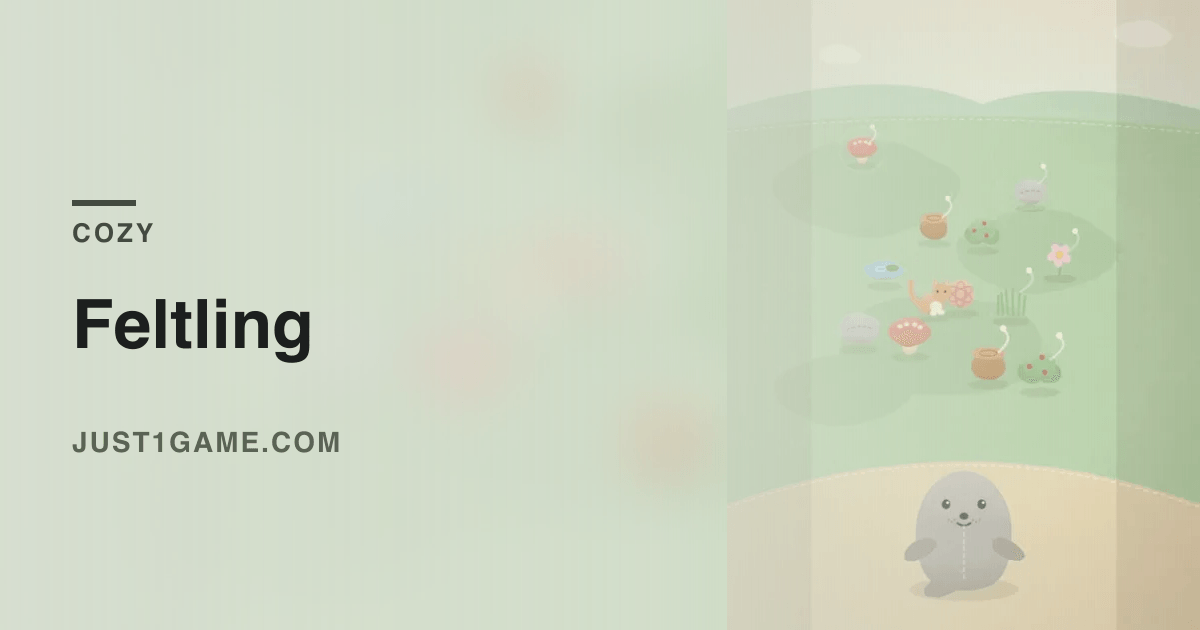
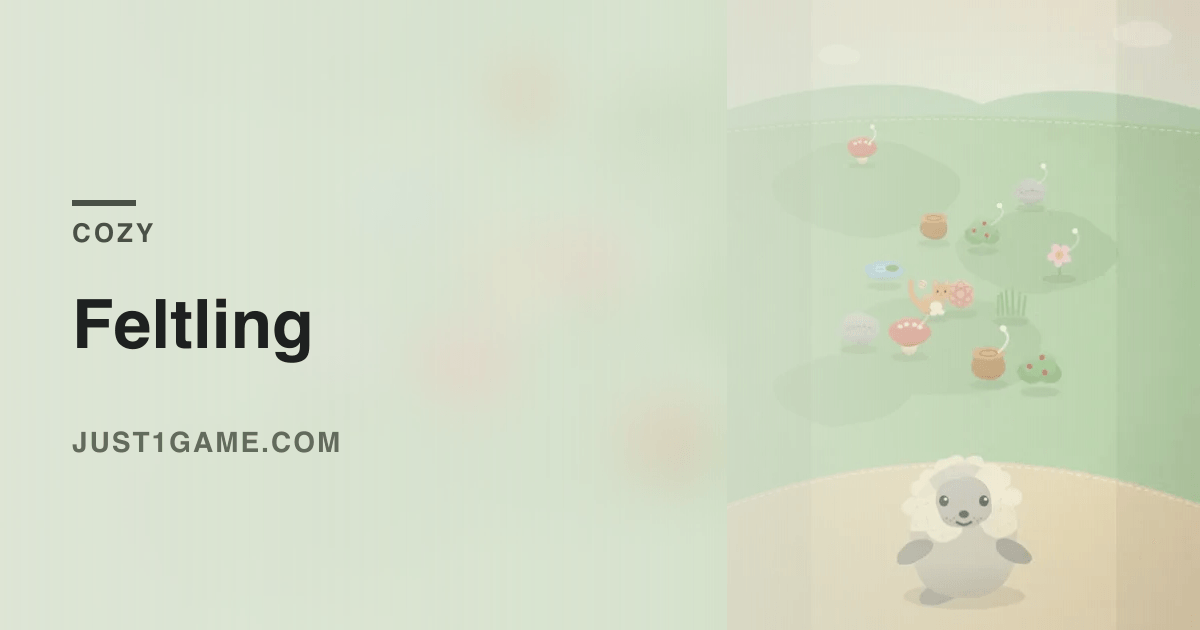
Let a game say which of its states is worth photographing
The cozy game opens on a bare grey seal, because growing its coat is the
entire point and you have not done it yet. The automated thumbnail is
therefore a true picture of the game that says nothing about what the game
is, which is the same failure as capturing a duck game before the ducklings
join the line — just at the other end of the run.

A game can now declare a capture query the way it already declares a
capture time, and Feltling opens its screenshot at the third coat, where
the seal is visibly half-woolly. Still a real frame the game produces, and
still chosen by the existing earliest-changed-frame rule inside the window.

Claude-Session: https://claude.ai/code/session_016REG1S2ydo31u1TNooXeEh

diff --git a/tools/shoot.js b/tools/shoot.js
@@ -72,10 +72,14 @@ async function pickPlayFrame(page, target, baseline, fromMs) {
   return fallback ? { raw: fallback, diff: fallbackDiff, at: null } : null;
 }
 
-async function shoot(browser, slug, fromMs) {
+/* 게임이 자기를 "가장 잘 보여주는 상태"로 열 수 있게 한다. games.json 의 captureQuery 가
+   있으면 그대로 쿼리로 붙인다 — Feltling은 0단계가 맨몸 회색 물범이라, 썸네일이 이 게임이
+   무엇에 관한 것인지(털이 자란다) 한 장도 말해주지 못했다. 게임이 실제로 만드는 화면이라는
+   성질은 그대로다. 없으면 아무것도 붙지 않는다. */
+async function shoot(browser, slug, fromMs, query) {
   const page = await browser.newPage({ viewport: VIEWPORT });
   const file = path.resolve(gamePath(slug));
-  await page.goto(pathToFileURL(file).href, { waitUntil: 'load' });
+  await page.goto(pathToFileURL(file).href + (query ? `?${query}` : ''), { waitUntil: 'load' });
   await page.waitForTimeout(800);
 
   const canvas = page.locator('canvas').first();
@@ -107,7 +111,7 @@ const browser = await chromium.launch();
 for (const slug of slugs) {
   try {
     const entry = all.find(g => g.slug === slug);
-    const { out, diff, at } = await shoot(browser, slug, entry && entry.captureFromMs);
+    const { out, diff, at } = await shoot(browser, slug, entry && entry.captureFromMs, entry && entry.captureQuery);
     const when = at === null ? 'NO CLEAR START (fallback frame)' : `t=${at}ms`;
     console.log(`ok   ${slug} -> ${out}  [diff ${diff}, ${when}]`);
   } catch (err) {
